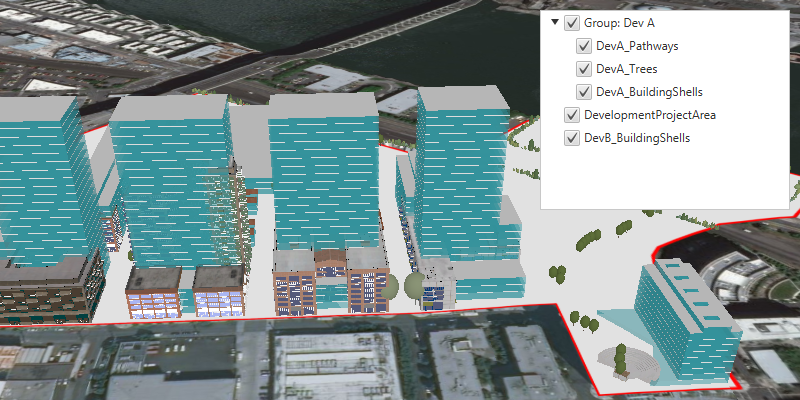
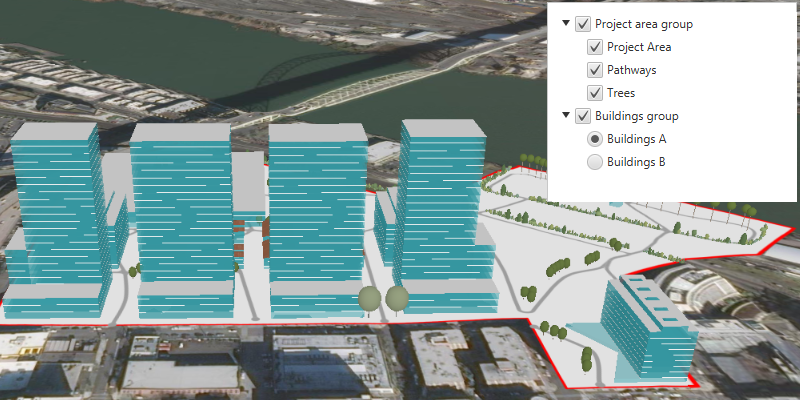
Add Exclusive Mode to Group Layers Sample (#581)
* add additional group layer

* add radio buttons to layer tree

* format the layer names in the ui

* update image

* update readme

* add alerts and tidy up comments

* move loading out of buildlayersview method

* code review amendments

* update readme and metadata

* add copyright to cell class

diff --git a/group_layers/group-layers/src/main/java/com/esri/samples/group_layers/GroupLayersSample.java b/group_layers/group-layers/src/main/java/com/esri/samples/group_layers/GroupLayersSample.java
@@ -23,6 +23,8 @@ import javafx.application.Application;
 import javafx.geometry.Insets;
 import javafx.geometry.Pos;
 import javafx.scene.Scene;
+import javafx.scene.control.Alert;
+import javafx.scene.control.ToggleGroup;
 import javafx.scene.control.TreeItem;
 import javafx.scene.control.TreeView;
 import javafx.scene.layout.StackPane;
@@ -32,6 +34,7 @@ import com.esri.arcgisruntime.data.ServiceFeatureTable;
 import com.esri.arcgisruntime.layers.ArcGISSceneLayer;
 import com.esri.arcgisruntime.layers.FeatureLayer;
 import com.esri.arcgisruntime.layers.GroupLayer;
+import com.esri.arcgisruntime.layers.GroupVisibilityMode;
 import com.esri.arcgisruntime.layers.Layer;
 import com.esri.arcgisruntime.loadable.LoadStatus;
 import com.esri.arcgisruntime.mapping.ArcGISScene;
@@ -44,9 +47,7 @@ import com.esri.arcgisruntime.mapping.view.SceneView;
 public class GroupLayersSample extends Application {
 
   private SceneView sceneView;
-  // keep loadables in scope to avoid garbage collection
-  private ArcGISScene scene;
-  private GroupLayer groupLayer;
+  static ToggleGroup buildingsToggleGroup;
 
   @Override
   public void start(Stage stage) {
@@ -69,35 +70,49 @@ public class GroupLayersSample extends Application {
       stackPane.getChildren().add(sceneView);
 
       // create a scene with a basemap and add it to the scene view
-      scene = new ArcGISScene();
+      ArcGISScene scene = new ArcGISScene();
       scene.setBasemap(Basemap.createImagery());
       sceneView.setArcGISScene(scene);
 
       // set the base surface with world elevation
       Surface surface = new Surface();
-      surface.getElevationSources().add(new ArcGISTiledElevationSource("https://elevation3d.arcgis.com/arcgis/rest/services/WorldElevation3D/Terrain3D/ImageServer"));
+      surface.getElevationSources().add(new ArcGISTiledElevationSource(
+        "https://elevation3d.arcgis.com/arcgis/rest/services/WorldElevation3D/Terrain3D/ImageServer"));
       scene.setBaseSurface(surface);
 
-      // create different types of layers
-      ArcGISSceneLayer devABuildings = new ArcGISSceneLayer("https://tiles.arcgis.com/tiles/P3ePLMYs2RVChkJx/arcgis/rest/services/DevA_BuildingShells/SceneServer");
-      ArcGISSceneLayer devBBuildings = new ArcGISSceneLayer("https://tiles.arcgis.com/tiles/P3ePLMYs2RVChkJx/arcgis/rest/services/DevB_BuildingShells/SceneServer");
-      ArcGISSceneLayer devATrees = new ArcGISSceneLayer("https://tiles.arcgis.com/tiles/P3ePLMYs2RVChkJx/arcgis/rest/services/DevA_Trees/SceneServer");
-      FeatureLayer devAPathways = new FeatureLayer(new ServiceFeatureTable(" https://services.arcgis.com/P3ePLMYs2RVChkJx/arcgis/rest/services/DevA_Pathways/FeatureServer/1"));
-      FeatureLayer devProjectArea = new FeatureLayer(new ServiceFeatureTable("https://services.arcgis.com/P3ePLMYs2RVChkJx/arcgis/rest/services/DevelopmentProjectArea/FeatureServer/0"));
+      // create a group layer for project areas, set the visibility mode and add layers to it
+      GroupLayer projectAreaGroupLayer = new GroupLayer();
+      projectAreaGroupLayer.setName("Project area group");
+      projectAreaGroupLayer.setVisibilityMode(GroupVisibilityMode.INDEPENDENT);
+      projectAreaGroupLayer.getLayers().addAll(Arrays.asList(
+        (new FeatureLayer(new ServiceFeatureTable(
+          "https://services.arcgis.com/P3ePLMYs2RVChkJx/arcgis/rest/services/DevelopmentProjectArea/FeatureServer/0"))),
+        (new FeatureLayer(new ServiceFeatureTable(
+          "https://services.arcgis.com/P3ePLMYs2RVChkJx/arcgis/rest/services/DevA_Pathways/FeatureServer/1"))),
+        (new ArcGISSceneLayer(
+          "https://tiles.arcgis.com/tiles/P3ePLMYs2RVChkJx/arcgis/rest/services/DevA_Trees/SceneServer"))
+      ));
 
-      // create a group layer from scratch by adding the layers as children
-      groupLayer = new GroupLayer();
-      groupLayer.setName("Group: Dev A");
-      groupLayer.getLayers().addAll(Arrays.asList(devATrees, devAPathways, devABuildings));
+      // create a group layer for buildings, set the visibility mode and add layers to it
+      GroupLayer buildingsGroupLayer = new GroupLayer();
+      buildingsGroupLayer.setName("Buildings group");
+      buildingsGroupLayer.setVisibilityMode(GroupVisibilityMode.EXCLUSIVE);
+      buildingsGroupLayer.getLayers().addAll(Arrays.asList(
+        (new ArcGISSceneLayer(
+          "https://tiles.arcgis.com/tiles/P3ePLMYs2RVChkJx/arcgis/rest/services/DevA_BuildingShells/SceneServer")),
+        (new ArcGISSceneLayer(
+          "https://tiles.arcgis.com/tiles/P3ePLMYs2RVChkJx/arcgis/rest/services/DevB_BuildingShells/SceneServer"))
+      ));
 
-      // add the group layer and other layers to the scene as operational layers
-      scene.getOperationalLayers().addAll(Arrays.asList(groupLayer, devBBuildings, devProjectArea));
+      // add the group layers to the scene as operational layers
+      scene.getOperationalLayers().addAll(Arrays.asList(projectAreaGroupLayer, buildingsGroupLayer));
 
-      // zoom to the extent of the group layer when the child layers are loaded
-      groupLayer.getLayers().forEach(childLayer ->
+      // display an alert if the child layers in the group layers fail to load
+      projectAreaGroupLayer.getLayers().forEach(childLayer ->
         childLayer.addDoneLoadingListener(() -> {
           if (childLayer.getLoadStatus() == LoadStatus.LOADED) {
-            sceneView.setViewpointCamera(new Camera(groupLayer.getFullExtent().getCenter(), 700, 0, 60, 0));
+            // zoom to the extent of the project area group layer when the child layers are loaded
+            sceneView.setViewpointCamera(new Camera(projectAreaGroupLayer.getFullExtent().getCenter(), 700, 0, 60, 0));
           }
         })
       );
@@ -105,12 +120,16 @@ public class GroupLayersSample extends Application {
       // create a JavaFX tree view to show the layers in the scene
       TreeView<Layer> layerTreeView = new TreeView<>();
       layerTreeView.setMaxSize(250, 200);
+      layerTreeView.setPadding(new Insets(10, 0, 0, 5));
       TreeItem<Layer> rootTreeItem = new TreeItem<>();
       layerTreeView.setRoot(rootTreeItem);
       layerTreeView.setShowRoot(false);
       StackPane.setAlignment(layerTreeView, Pos.TOP_RIGHT);
       StackPane.setMargin(layerTreeView, new Insets(10));
       stackPane.getChildren().add(layerTreeView);
+
+      // create a toggle group for the tree view UI
+      buildingsToggleGroup = new ToggleGroup();
 
       // display each layer with a custom tree cell
       layerTreeView.setCellFactory(p -> new LayerTreeCell());
@@ -135,16 +154,18 @@ public class GroupLayersSample extends Application {
       // load each layer before adding to ensure all metadata is ready for display
       layer.loadAsync();
       layer.addDoneLoadingListener(() -> {
-        // add a tree item for the layer to the parent tree item
-        if (layer.canShowInLegend()) {
-          TreeItem<Layer> layerItem = new TreeItem<>(layer);
-          layerItem.setExpanded(true);
-          parentItem.getChildren().add(layerItem);
-          // if the layer is a group layer, continue building with its children
-          if (layer instanceof GroupLayer && ((GroupLayer) layer).isShowChildrenInLegend()) {
-            buildLayersView(layerItem, ((GroupLayer) layer).getLayers());
+        if (layer.getLoadStatus() == LoadStatus.LOADED) {
+          // add a tree item for the layer to the parent tree item
+          if (layer.canShowInLegend()) {
+            TreeItem<Layer> layerItem = new TreeItem<>(layer);
+            layerItem.setExpanded(true);
+            parentItem.getChildren().add(layerItem);
+            // if the layer is a group layer, continue building with its children
+            if (layer instanceof GroupLayer && ((GroupLayer) layer).isShowChildrenInLegend()) {
+              buildLayersView(layerItem, ((GroupLayer) layer).getLayers());
+            }
           }
-        }
+        } else new Alert(Alert.AlertType.ERROR, "Layer failed to load:\n" + layer.getLoadError().getCause().getMessage()).show();
       });
     }
   }
@@ -169,5 +190,4 @@ public class GroupLayersSample extends Application {
 
     Application.launch(args);
   }
-
 }

diff --git a/group_layers/group-layers/src/main/java/com/esri/samples/group_layers/LayerTreeCell.java b/group_layers/group-layers/src/main/java/com/esri/samples/group_layers/LayerTreeCell.java
@@ -1,12 +1,30 @@
+/*
+ * Copyright 2019 Esri.
+ *
+ * Licensed under the Apache License, Version 2.0 (the "License"); you may not
+ * use this file except in compliance with the License. You may obtain a copy of
+ * the License at
+ *
+ * http://www.apache.org/licenses/LICENSE-2.0
+ *
+ * Unless required by applicable law or agreed to in writing, software
+ * distributed under the License is distributed on an "AS IS" BASIS, WITHOUT
+ * WARRANTIES OR CONDITIONS OF ANY KIND, either express or implied. See the
+ * License for the specific language governing permissions and limitations under
+ * the License.
+ */
+
 package com.esri.samples.group_layers;
 
 import javafx.scene.control.CheckBox;
+import javafx.scene.control.RadioButton;
 import javafx.scene.control.TreeCell;
 
 import com.esri.arcgisruntime.layers.Layer;
 
 /**
- * A custom tree cell for displaying a layer in a tree view. Includes a check box for toggling the layer's visibility.
+ * A custom tree cell for displaying a layer in a tree view. Includes a check box or radio button
+ * for toggling the layer's visibility.
  */
 public class LayerTreeCell extends TreeCell<Layer> {
 
@@ -14,19 +32,56 @@ public class LayerTreeCell extends TreeCell<Layer> {
   public void updateItem(Layer layer, boolean empty) {
     super.updateItem(layer, empty);
     if (!empty) {
-      // use the layer's name for the text
-      setText(layer.getName());
 
-      // add a check box to allow the user to change the visibility of the layer
-      CheckBox checkBox = new CheckBox();
-      setGraphic(checkBox);
+      // set the label to the layer's name
+      setText(formatName(layer.getName()));
 
-      // toggle the layer's visibility when the check box is toggled
-      checkBox.setSelected(layer.isVisible());
-      checkBox.selectedProperty().addListener(e -> layer.setVisible(checkBox.isSelected()));
+      if (layer.getName().equals("DevA_BuildingShells") || layer.getName().equals("DevB_BuildingShells")) {
+
+        // if the layer is a building shell create a radio button and assign to the toggle group
+        RadioButton radioButton = new RadioButton();
+        setGraphic(radioButton);
+        radioButton.setToggleGroup(GroupLayersSample.buildingsToggleGroup);
+
+        // toggle the layer's visibility when the radio button is selected
+        radioButton.setSelected(layer.isVisible());
+        radioButton.selectedProperty().addListener(e -> layer.setVisible(radioButton.isSelected()));
+      } else {
+
+        // if the layer is not a building shell, create a checkbox
+        CheckBox checkBox = new CheckBox();
+        setGraphic(checkBox);
+
+        // toggle the layer's visibility when the check box is toggled
+        checkBox.setSelected(layer.isVisible());
+        checkBox.selectedProperty().addListener(e -> layer.setVisible(checkBox.isSelected()));
+      }
     } else {
       setText(null);
       setGraphic(null);
+    }
+  }
+
+  /**
+   * Format the layer's name property to a user-friendly string.
+   *
+   * @param layerName the name of the layer
+   * @return a formatted string
+   */
+  private String formatName(String layerName) {
+    switch (layerName) {
+      case "DevA_Trees":
+        return "Trees";
+      case "DevA_Pathways":
+        return "Pathways";
+      case "DevA_BuildingShells":
+        return "Buildings A";
+      case "DevB_BuildingShells":
+        return "Buildings B";
+      case "DevelopmentProjectArea":
+        return "Project Area";
+      default:
+        return layerName;
     }
   }
 }

diff --git a/group_layers/group-layers/README.md b/group_layers/group-layers/README.md
@@ -18,11 +18,16 @@ The layers in the map will be displayed in a table of contents. Toggle the check
 
 1. Create an empty `GroupLayer`.
 2. Add a child layer to the group layer's layers collection.
-3. To toggle the visibility of the group, simply change the group layer's visibility property using `layer.setVisible(boolean)`.
+3. Set the group layer's `GroupVisibilityMode` to change its behavior.
+- `GroupVisibilityMode.INDEPENDENT` allows each sublayer to change its visibility independently.
+- `GroupVisibilityMode.EXCLUSIVE` allows only one sublayer to be visible at a time.
+- `GroupVisibilityMode.INHERITED` treats the group layer as if it is one merged layer.
+4. To toggle the visibility of the group, simply change the group layer's visibility property using `layer.setVisible(boolean)`.
 
 ## Relevant API
 
 * GroupLayer
+* GroupVisibilityMode
 
 ## Additional information
 
